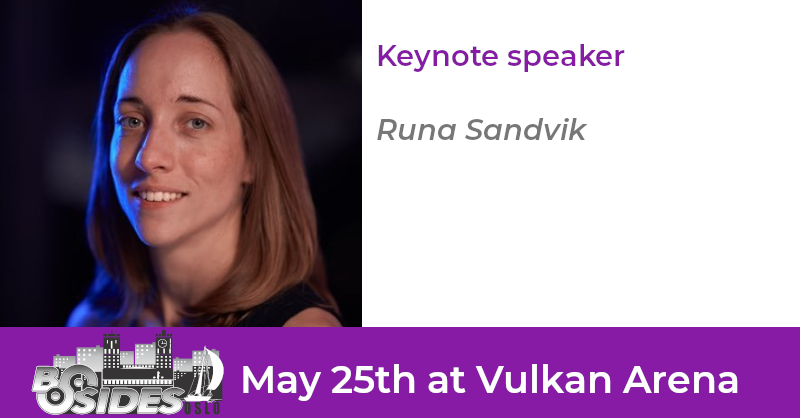
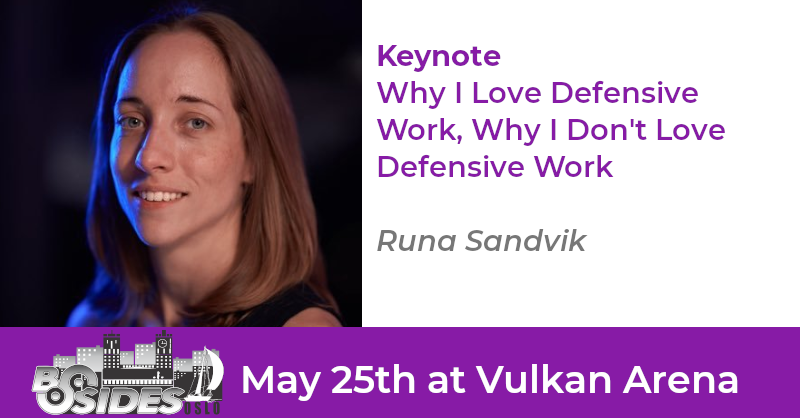
Added updated keynote information

diff --git a/_talks/KeynoteWhyILoveDefensiveWorkWhyIDontLoveDefensiveWork.md b/_talks/KeynoteWhyILoveDefensiveWorkWhyIDontLoveDefensiveWork.md
@@ -1,6 +1,6 @@
 ---
 layout: talks
-title: Keynote
+title: Why I Love Defensive Work, Why I Don't Love Defensive Work
 length: 45
 keynote: true
 card: RunaSandvikKeynoteSpeaker.png
@@ -11,6 +11,5 @@ speakers:
     Runa Sandvik works on digital security for journalists and other high-risk people. Her work builds upon experience from her time at The New York Times, Freedom of the Press Foundation, and The Tor Project. 
     
     She is a board member of the Norwegian Online News Association, runs [@journalistandspy](https://www.instagram.com/journalistandspy/) on Instagram, and tweets as [@runasand](https://twitter.com/runasand).
-
 ---
-The keynote does not have a synopis yet.
+A personal talk about my 12-year relationship with defensive security work and other random stories. Come for the tales about journalism security, mission and impact. Stay for the fun nuggets about gun hacking, research, and corporate politics. Bring your best questions and good attitude!
